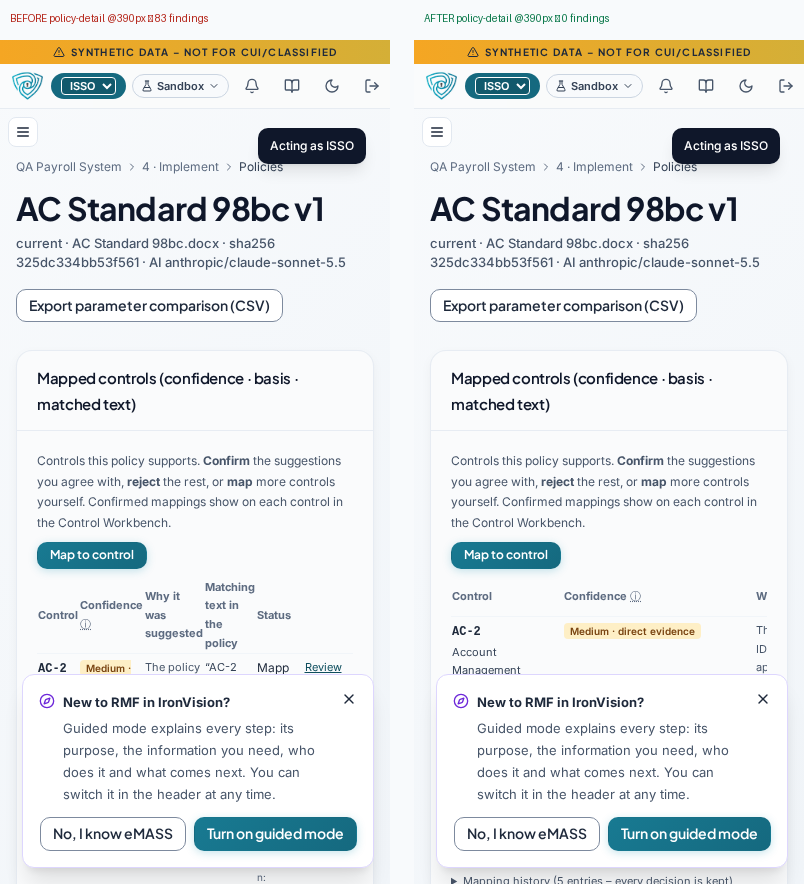
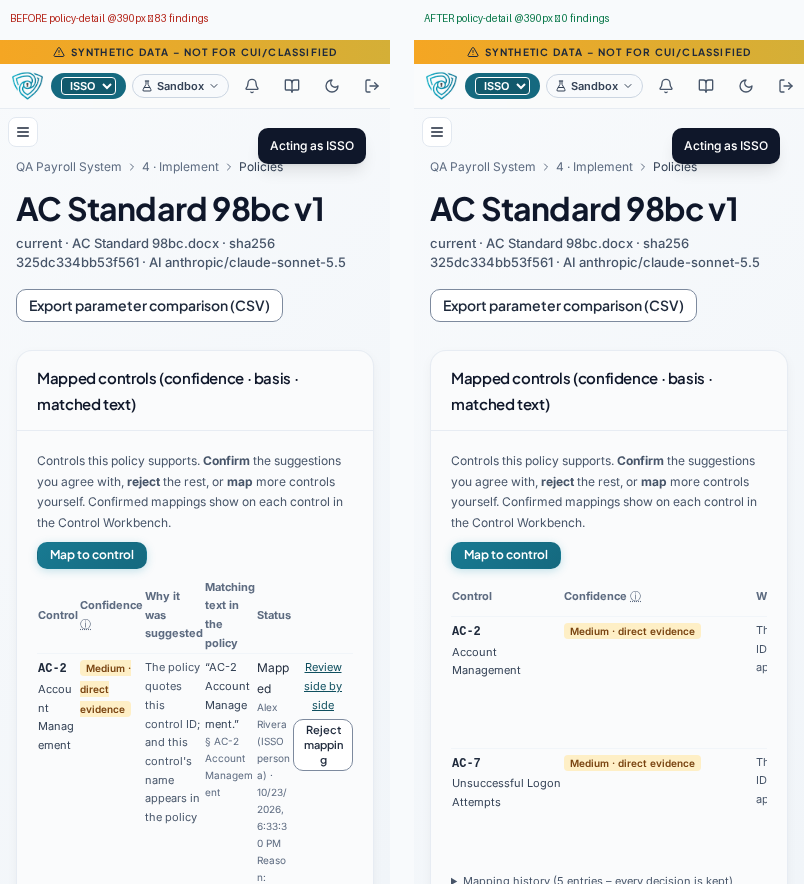
Wrap shots scrolled to first finding (guided prompt dismissed); checkers dismiss first-login prompt; contrast sampler tolerates re-rendered elements

Changed region(s): [[0.0311, 0.7636, 0.4664, 1.0], [0.5597, 0.7636, 0.9639, 1.0]]

diff --git a/scripts/ux_baseline/wrap_shots.py b/scripts/ux_baseline/wrap_shots.py
@@ -1,0 +1,71 @@
+#!/usr/bin/env python3
+"""Before/after screenshots of the worst wrap screens, scrolled to the first finding (guided prompt dismissed).
+BEFORE_BASE = build of the pre-fix commit served via a local proxy; AFTER_BASE = preview. Writes $WRAP_RAW/{before,after}-light-<w>/<page>_<w>.png"""
+import asyncio
+import json
+import os
+import sys
+
+sys.path.insert(0, "/app/scripts")
+from check_layout_overflow import EMAIL, PW, act, ensure_systems, routes  # noqa: E402
+from check_wrap import MEASURE  # noqa: E402
+from playwright.async_api import async_playwright  # noqa: E402
+import httpx  # noqa: E402
+
+RAW = os.environ.get("WRAP_RAW", "/root/raw/wrap")
+W = "/app/docs/screenshots/wrap"
+PAGES = os.environ["WRAP_PAGES"].split(",")
+
+
+def size_for(p):
+    b = {r: x for r in ("390", "768") for x in json.load(open(f"{W}/results-before-light-{r}.json")) if x["page"] == p}
+    return "390" if b["390"]["count"] >= b["768"]["count"] else "768"
+
+
+async def shoot(base, phase, anchors):
+    tok = httpx.post(f"{base}/api/v1/auth/login", json={"email": EMAIL, "password": PW}, timeout=60).json()["access_token"]
+    rs = {r[0]: r for r in routes(ensure_systems(tok))}
+    async with async_playwright() as p:
+        b = await p.chromium.launch()
+        page = await (await b.new_context(viewport={"width": 390, "height": 844})).new_page()
+        await page.goto(base + "/login")
+        await page.fill("input[type=email]", EMAIL)
+        await page.fill("input[type=password]", PW)
+        await page.keyboard.press("Enter")
+        await page.wait_for_url(lambda u: "/login" not in u, timeout=60000)
+        await page.evaluate("localStorage.setItem('ironvision.theme', 'light')")
+        for name in PAGES:
+            s = size_for(name)
+            await page.set_viewport_size({"width": int(s), "height": 844 if s == "390" else 1024})
+            _, path, sid, how = rs[name]
+            await page.evaluate(f"localStorage.setItem('aegis.selected_system', '{sid}')")
+            await page.goto(base + path)
+            try:
+                await page.wait_for_selector("[data-testid=main-content] h1, [data-testid=main-content] h2", timeout=30000)
+                await page.wait_for_load_state("networkidle", timeout=20000)
+                await act(page, how)
+            except Exception:
+                pass
+            if await page.locator("[data-testid=guided-first-login-no]").count():
+                await page.click("[data-testid=guided-first-login-no]")
+            if phase == "before":
+                items = await page.evaluate(MEASURE)
+                anchors[name] = next((i["el"] for i in items if i["el"] not in ("div", "span", "td", "p", "li")), None)
+            a = anchors.get(name)
+            if a and await page.locator(f"[data-testid='{a}']").count():
+                await page.locator(f"[data-testid='{a}']").first.scroll_into_view_if_needed()
+                await page.evaluate("window.scrollBy(0, -120)")
+            await page.wait_for_timeout(500)
+            os.makedirs(f"{RAW}/{phase}-light-{s}", exist_ok=True)
+            await page.screenshot(path=f"{RAW}/{phase}-light-{s}/{name}_{s}.png")
+            print(phase, name, s, a)
+        await b.close()
+
+
+async def main():
+    anchors = {}
+    await shoot(os.environ["BEFORE_BASE"], "before", anchors)
+    await shoot(os.environ["AFTER_BASE"], "after", anchors)
+
+
+asyncio.run(main())

diff --git a/scripts/check_contrast.py b/scripts/check_contrast.py
@@ -100,16 +100,19 @@ async def page_checks(page) -> dict:
     custom = []
     for i in range(n):
         loc = page.locator(f"[data-ivc='{i}']")
-        custom += await loc.evaluate("(el) => __ivc.measure(el, 'rest')")
+        try:
+            custom += await loc.evaluate("(el) => __ivc.measure(el, 'rest')", timeout=3000)
+        except Exception:
+            continue  # element re-rendered away (e.g. a dismissed prompt) – nothing left to measure
         try:
             await loc.hover(timeout=1500)
             await page.wait_for_timeout(160)  # transitions are 150 ms
-            custom += await loc.evaluate("(el) => __ivc.measure(el, 'hover')")
-            if await loc.evaluate("(el) => !el.disabled && el.tabIndex >= 0 && !el.matches('.rounded-full.h-2, [data-testid^=nav-step-status-]')"):
+            custom += await loc.evaluate("(el) => __ivc.measure(el, 'hover')", timeout=3000)
+            if await loc.evaluate("(el) => !el.disabled && el.tabIndex >= 0 && !el.matches('.rounded-full.h-2, [data-testid^=nav-step-status-]')", timeout=3000):
                 await page.keyboard.press("Shift")  # keyboard modality → programmatic focus gets :focus-visible
                 await loc.focus(timeout=1500)
                 await page.wait_for_timeout(160)
-                custom += await loc.evaluate("(el) => __ivc.measure(el, 'focus')")
+                custom += await loc.evaluate("(el) => __ivc.measure(el, 'focus')", timeout=3000)
         except Exception:
             pass  # element moved/covered – resting state still measured
     await page.mouse.move(0, 0)

diff --git a/scripts/check_layout_overflow.py b/scripts/check_layout_overflow.py
@@ -118,6 +118,8 @@ async def goto_authed(page, url: str) -> bool:
     if "/login" in page.url and "/login" not in url:
         await ui_login(page)
         await page.goto(url)
+    if await page.locator("[data-testid=guided-first-login-no]").count():  # first-login Guided Mode prompt would cover content
+        await page.click("[data-testid=guided-first-login-no]")
     return "/login" not in page.url or "/login" in url
 
 
